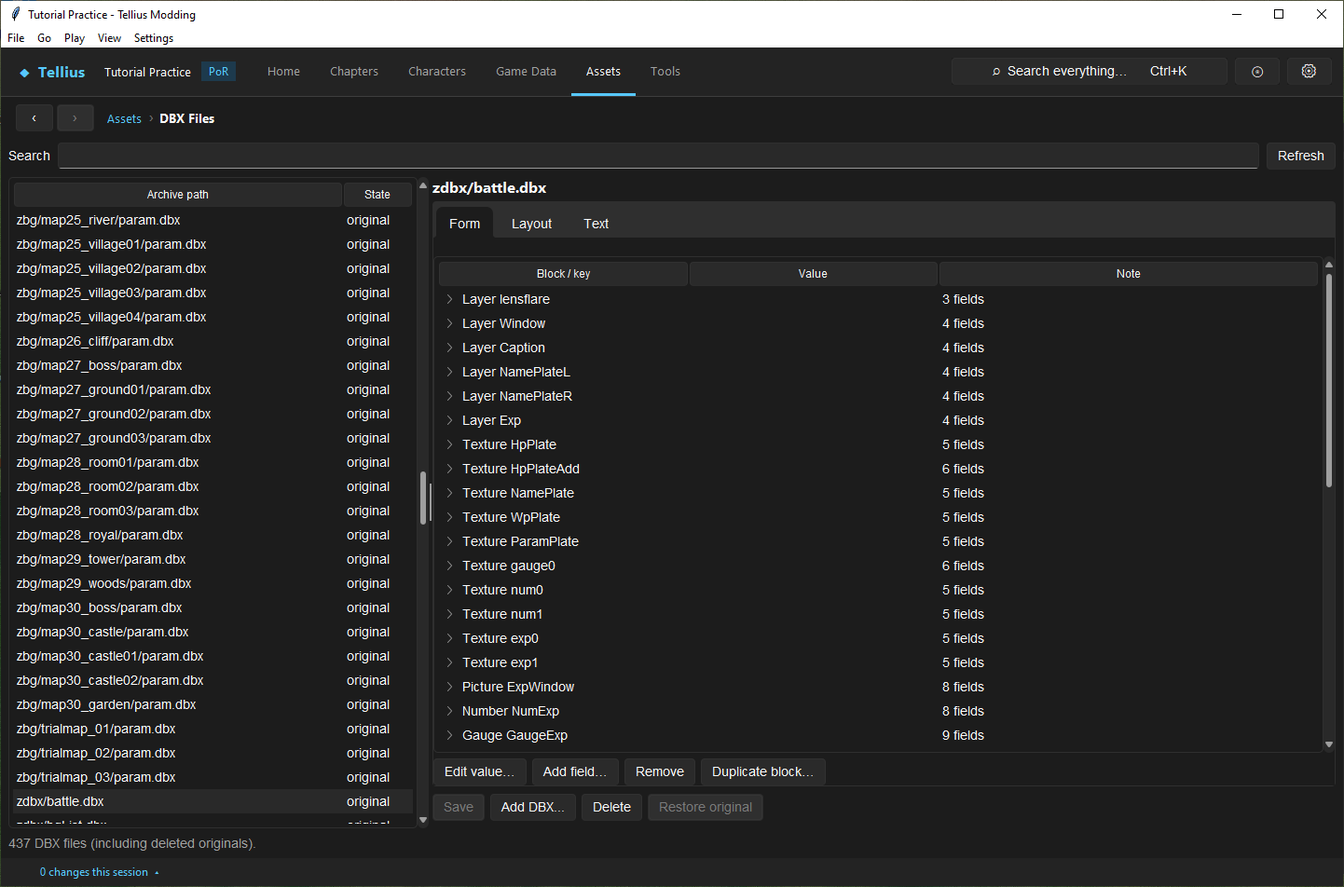
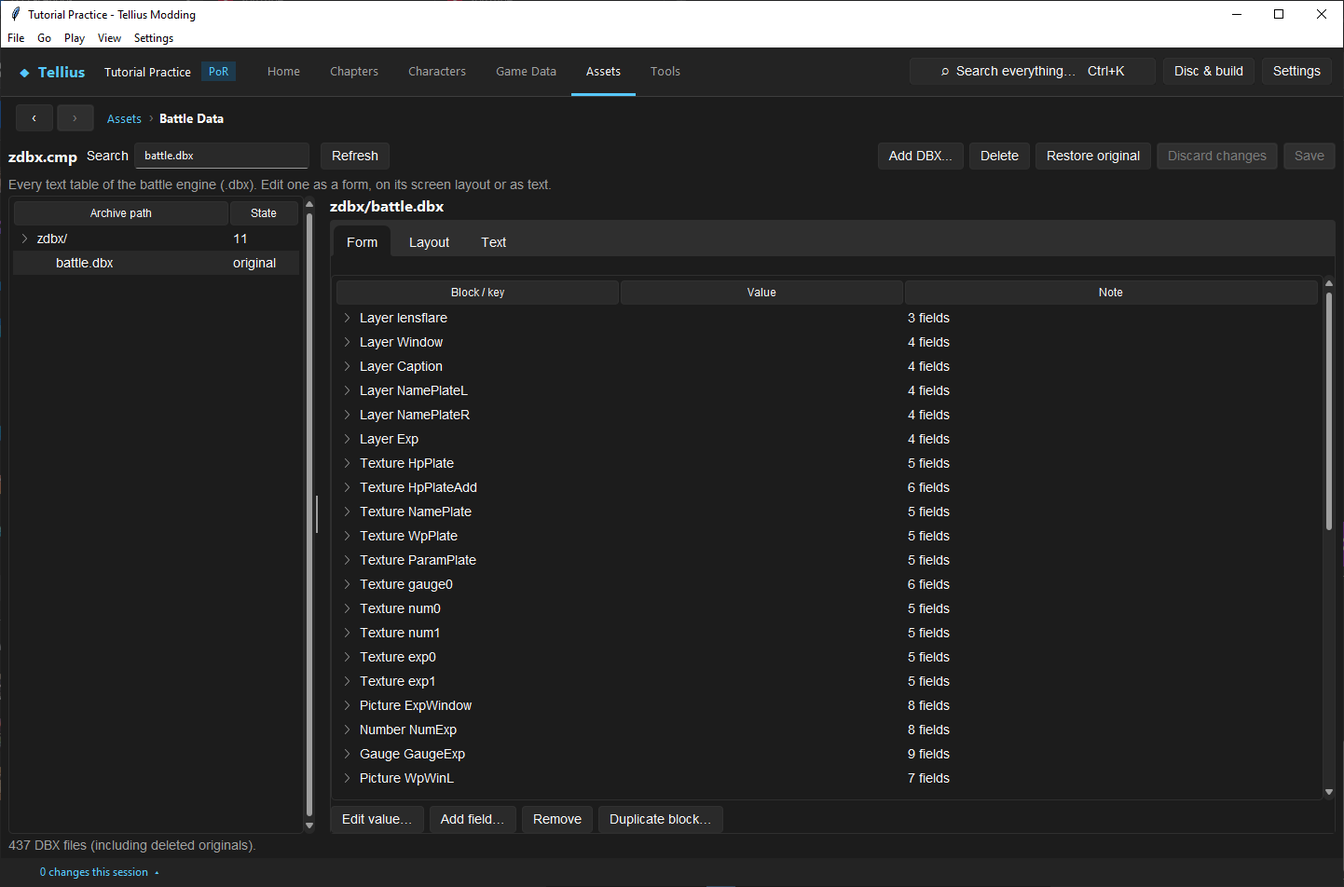
Radiant Dawn follow-ups: blank hub fixed, wrap and regions checked
- Create hub's blank map kept the template's names (bmap0101.gs,
  bmap0101:mapdata) and the game finds a map's parts by its own name, so
  the hub had no ground and Obstacle terrain. The map is now renamed like
  Add chapter's copy (both games). RD's map_base material ignores the
  material colour, so a plain ground carries its colour in a texture.
  Checked in Dolphin: green ground, Plain terrain.
- Map wrap: starts at each phase change and shifts the terrain lookup;
  on bmap0201 a tile reads Cloud with wrap, Sky without (Dolphin).
- The chapter jump boots the EU and JP discs into the Prologue.
- The Japanese save's structure from the code: the system record and
  seven 0x18000 records; still refused, with a clearer message.
- Lessons 69-71 screenshots recaptured on the shared battle pages; the
  capture steps drive the new page.

diff --git a/App/tools/capture_tutorial_screenshots.py b/App/tools/capture_tutorial_screenshots.py
@@ -2132,15 +2132,15 @@ def lessons_69_71(ctx: Ctx):
     # -- 70 battle cameras --
     ctx.go("asset", "battle_cameras")
     yield 2500
-    cams = _table(ctx, "battle_cameras")
-    cams._script_tree.selection_set("standby")
-    cams._script_tree.see("standby")
-    cams._show_script()
+    cams_page = _table(ctx, "battle_cameras")
+    cams = cams_page.adapter
+    cams_page.select("script:standby")
     yield 1000
     ctx.grab("70-a-setup.png", lesson=70,
-             caption="**Assets › Battle Cameras**, **Camera scripts (xcam)** with `standby`, the zoom that opens a "
-                     "melee fight: rig `cam1`, four keyframes from distance 170 to 70 over 330 ticks.",
-             alt="Battle Cameras page with the script list, the standby script's caption, rig and keyframe table.")
+             caption="**Assets › Battle Cameras** with `standby` selected in the **Camera scripts (xcam)** group, "
+                     "the zoom that opens a melee fight: rig `cam1`, four keyframes from distance 170 to 70 over 330 "
+                     "ticks.",
+             alt="Battle Cameras page with the grouped list, the standby script's caption, rig and keyframe table.")
     cams._frame_tree.selection_set("3")
     cams._load_frame_fields()
     cams._frame_vars["dist"].set("110")
@@ -2152,37 +2152,31 @@ def lessons_69_71(ctx: Ctx):
                      "**Preview**: the built-in fight (Ike against a Fighter) plays with the edited script, ending "
                      "wider. **Apply script** would write it; nothing is written yet.",
              alt="Battle Cameras page with the edited keyframe and the preview fight playing below.")
-    cams._show_script()  # drop the unapplied edit
-    notebook = next(w for w in ctx.find(cams, ttk.Notebook))
-    _tab_named(notebook, "Camera rigs (camera.dbx)")
-    yield 600
-    cams._rig_tree.selection_set("cam1")
-    cams._show_rig()
+    cams_page.select("rig:cam1")
     yield 800
     ctx.grab("70-c-rigs.png", lesson=70,
-             caption="**Camera rigs (camera.dbx)** with `cam1`, the free camera of the opening: position, rotation, "
-                     "distance, look-at offset, speed and the units it follows. **Apply rig** writes one rig; "
-                     "**Restore camera.dbx** restores them all.",
-             alt="Battle Cameras rigs tab with the rig list and cam1's fields.")
+             caption="`cam1` in the **Camera rigs (camera.dbx)** group, the free camera of the opening: position, "
+                     "rotation, distance, look-at offset, speed and the units it follows. **Apply rig** writes one "
+                     "rig; **Restore original** with a rig selected restores them all.",
+             alt="Battle Cameras page with cam1 selected in the rigs group and its fields.")
     # -- 71 DBX files and the HUD --
     ctx.go("asset", "dbx_files")
     yield 2500
-    dbxp = _table(ctx, "dbx_files")
-    dbxp._tree.selection_set("zdbx/battle.dbx")
-    dbxp._tree.see("zdbx/battle.dbx")
-    dbxp._select()
+    dbx_page = _table(ctx, "dbx_files")
+    dbxp = dbx_page.adapter
+    dbx_page._query.set("battle.dbx")
+    dbx_page.select("zdbx/battle.dbx")
     yield 1200
     ctx.grab("71-a-setup.png", lesson=71,
-             caption="**Assets › DBX Files** with `zdbx/battle.dbx`, the battle screen: **Form** lists each block "
+             caption="**Assets › Battle Data** with `zdbx/battle.dbx`, the battle screen: **Form** lists each block "
                      "(layers, textures, pictures, numbers, gauges) with its fields and an English note per known "
                      "key.",
-             alt="DBX Files page with zdbx/battle.dbx selected and its blocks in the Form tab.")
+             alt="Battle Data page with zdbx/battle.dbx selected and its blocks in the Form tab.")
     _tab_named(dbxp._tabs, "Layout")
     yield 300
     dbxp._refresh_views()
     yield 1500
     layout = dbxp._layout
-    canvas = layout._canvas
     from fe_modding.formats import dbx as _dbx
     start = next(b.start for b in _dbx.parse(dbxp._current_text()).blocks() if b.name == "WpWinL")
     doc = _dbx.parse(dbxp._current_text())
@@ -2196,9 +2190,9 @@ def lessons_69_71(ctx: Ctx):
              caption="The **Layout** tab draws every widget with a position on the 640 × 480 screen; `WpWinL`, the "
                      "left weapon window, was dragged down. The text changed (**Save** is enabled), but nothing is "
                      "written until **Save**.",
-             alt="DBX Files Layout tab with the battle screen widgets drawn as rectangles and WpWinL moved down.")
-    dbxp._dirty = False
-    dbxp._open("zdbx/battle.dbx")
+             alt="Battle Data Layout tab with the battle screen widgets drawn as rectangles and WpWinL moved down.")
+    dbxp.discard()
+    dbx_page._query.set("")
     yield 500
 
 

diff --git a/App/fe_modding/hub_creation.py b/App/fe_modding/hub_creation.py
@@ -113,6 +113,18 @@ def _flat_model(width: int, height: int, texture_id: int, white_id: int,
         bone=bone, bone_world=bone_world).gs)
 
 
+def _colour_texture(texpack: bytes, color: tuple[int, int, int]) -> tuple[bytes, int]:
+    """``texpack`` with an 8 x 8 texture of ``color`` (RGBA8, exact) added, and its index. Radiant Dawn's
+    ``map_base`` material draws the texture and ignores the material colour (Dolphin: a tinted white
+    texture shows white), so a plain-colour ground carries its colour in its texture there."""
+    source = tpl.build_tpl([(Image.new("RGBA", (8, 8), (*color, 255)), tpl.FORMAT_RGBA8)], wrap=tpl.WRAP_CLAMP)
+    return tpl.copy_images(texpack, source, [0])
+
+
+def _is_colour_texture(image: Image.Image, color: tuple[int, int, int]) -> bool:
+    return image.size == (8, 8) and image.getcolors(1) == [(64, (*color, 255))]
+
+
 def _ground(files: dict[str, bytes]) -> tuple[map_file.MapData, map_file.MapObject]:
     data = map_file.read_map_bytes(files["map.bin"])
     ground = next((obj for obj in data.build_desc if map_file.is_base_terrain_object(obj, files)
@@ -141,6 +153,8 @@ def flat_ground_appearance(files: dict[str, bytes]) -> GroundAppearance:
         if not 0 <= base_id < len(images):
             raise ValueError("The generated hub ground refers to a missing texture.")
         image = images[base_id].convert("RGBA")
+        if _is_colour_texture(image, color):
+            image = None      # Radiant Dawn's plain colour, carried by the texture (:func:`_colour_texture`)
     scale = float(1 << model.uv_frac)
     tiled = any(abs(u / scale) > 1.0001 or abs(v / scale) > 1.0001 for u, v in model.uvs)
     return GroundAppearance(color, image, tiled)
@@ -179,6 +193,8 @@ def replace_flat_ground(_entries: list[pak.PakEntry], files: dict[str, bytes], *
                                wrap=tpl.WRAP_REPEAT if tile_ground_image else tpl.WRAP_CLAMP)
         files[texpack], texture_id = tpl.copy_images(files[texpack], source, [0])
         material_color = (255, 255, 255)
+    elif ground_material(data.layout) == "map_base":
+        files[texpack], texture_id = _colour_texture(files[texpack], ground_color)
     files[f"{ground.filename}.gs"] = _flat_model(
         data.capacity.x_size, data.capacity.y_size, texture_id, white_id, material_color,
         ground_image is not None and tile_ground_image, origin, bone, bone_world, ground_material(data.layout))
@@ -277,6 +293,8 @@ def blank_map(compressed: bytes, width: int, height: int, *,
                                wrap=tpl.WRAP_REPEAT if tile_ground_image else tpl.WRAP_CLAMP)
         content["texpack.tpl"], texture_id = tpl.copy_images(content["texpack.tpl"], source, [0])
         material_color = (255, 255, 255)  # show the image without a color tint
+    elif ground_material(layout) == "map_base":
+        content["texpack.tpl"], texture_id = _colour_texture(content["texpack.tpl"], ground_color)
     content[f"{ground.filename}.gs"] = _flat_model(
         width, height, texture_id, white_id, material_color,
         ground_image is not None and tile_ground_image, material=ground_material(layout))
@@ -389,6 +407,8 @@ def create_chapter(project, fe8: bytes, source_id: str, chapter: int, title: str
         raise ValueError("The prepared deployment has no player section.")
     plan = chapters.add_story_chapter(project, fe8, source_id, chapter, title, after=None)
     paths = chapters.chapter_paths(project, f"{chapter:02d}")
+    # named after the new map, as Add chapter's copy is (the game finds a map's parts by its name)
+    map_bytes = chapters.rename_map_pack(map_bytes, source.map.parent.name, paths.map.parent.name)
     project.write_keeping_original(paths.map, map_bytes)
     project.write_keeping_original(paths.deployment, deployment_bytes)
     project.write_keeping_original(paths.dialogue, message.write_messages([]))

diff --git a/App/tests/test_hub_fe10.py b/App/tests/test_hub_fe10.py
@@ -175,13 +175,25 @@ class RdHubSetupTests(unittest.TestCase):
         project.write_logical("game_data", plan.fe10data)
         _entries, files = map_props.read_map_container(chapters.chapter_paths(project, "0502").map)
         data = map_file.read_map_bytes(files["map.bin"])
+        # named after the new map, or the game finds neither its sections nor its ground (Dolphin)
+        self.assertIn("bmap0502.gs", files)
+        self.assertNotIn("bmap0101.gs", files)
+        self.assertIn(b"bmap0502:mapdata", files["map.bin"])
+        self.assertNotIn(b"bmap0101:", files["map.bin"])
         self.assertEqual((data.capacity.x_size, data.capacity.y_size, len(data.build_inst)), (14, 9, 1))
         self.assertEqual(data.rd.version, map_file.read_map_bytes(
             map_props.read_map_container(chapters.chapter_paths(project, "0101").map)[1]["map.bin"]).rd.version)
         ground = [o for o in data.build_desc if map_file.is_base_terrain_object(o, files)
                   and "water" not in o.filename]
         self.assertEqual(len(ground), 1)       # found by its map_base material, as the game finds it
-        self.assertEqual(hub_creation.flat_ground_appearance(files).color, (90, 140, 70))
+        appearance = hub_creation.flat_ground_appearance(files)
+        self.assertEqual(appearance.color, (90, 140, 70))
+        self.assertIsNone(appearance.image)      # the colour texture reads back as the plain colour
+        from fe_modding.formats import gs_file, tpl
+        import io
+        material = gs_file.read_gs(files[f"{ground[0].filename}.gs"]).materials[0]
+        base = tpl.read_tpl_images(io.BytesIO(files["texpack.tpl"]))[material.textures[0].tex_id].convert("RGBA")
+        self.assertEqual(base.getpixel((0, 0)), (90, 140, 70, 255))    # map_base draws the texture's colour
         for path in hub_fe10._deployments(project, "0502"):
             for section in dispo.parse_dispo(path.read_bytes()).sections:
                 if "_mikata" in section.name and section.units:

diff --git a/App/fe_modding/formats/save_file_fe10.py b/App/fe_modding/formats/save_file_fe10.py
@@ -37,7 +37,10 @@ FILE_NAME = "FE10_US.dat"
 FILE_SIZE = 0x124000
 #: Each build's NAND file. The European build writes the same layout as the US one (same file size
 #: and writer code, region map of main.dol); the Japanese file is 0xAC000 bytes (main.dol
-#: 0x8023DE54 creates it with 0xB0000 - 0x4000) and its layout is not decoded.
+#: 0x8023DE54 creates it with 0xB0000 - 0x4000): the same 0x4000 system record, then seven 0x18000
+#: records at 0x4000 + n x 0x18000 (the file seek at 0x8023F4B4 is the US one at 0x80248800). The US
+#: checkpoint bank at 0x94000 + n x 0x18000 has no Japanese counterpart, so record 6 is probably its one
+#: checkpoint; which record holds what is not confirmed without a Japanese save.
 FILE_NAMES = {"RFEE01": "FE10_US.dat", "RFEP01": "FE10_EU.dat", "RFEJ01": "FE10_JP.dat"}
 #: The builds whose file this module reads.
 READABLE = ("RFEE01", "RFEP01")
@@ -1221,8 +1224,9 @@ class SaveFile:
     @classmethod
     def from_bytes(cls, data: bytes) -> "SaveFile":
         if len(data) == JP_FILE_SIZE:
-            raise ValueError("This is a Japanese save (FE10_JP.dat). Its layout differs from the US and "
-                             "European saves and can't be read yet.")
+            raise ValueError("This is a Japanese save (FE10_JP.dat). It holds seven records where the US "
+                             "and European saves hold twelve, and which record is which is not confirmed yet, "
+                             "so it can't be opened.")
         if len(data) != FILE_SIZE:
             raise ValueError(f"A Radiant Dawn save must be 0x{FILE_SIZE:X} bytes, found 0x{len(data):X}")
         system = SaveRecord(data[:SYSTEM_SIZE], 0)

diff --git a/App/fe_modding/hub_creation_fe10.py b/App/fe_modding/hub_creation_fe10.py
@@ -112,7 +112,11 @@ def create_chapter(project, fe10: bytes, source_id: str, new_id: str, title: str
             start = width // 2, height // 2
     plan = chapters_fe10.add_story_chapter(project, fe10, source_id, new_id, title)
     if blank is not None:
-        project.write_keeping_original(chapters.chapter_paths(project, new_id).map, blank)
+        # named after the new map, as Add chapter's copy is: the game finds a map's sections and models
+        # (bmap0501:mapdata, bmap0501.gs) by the map folder's name (checked in Dolphin)
+        target = chapters.chapter_paths(project, new_id).map
+        blank = chapters.rename_map_pack(blank, template.parent.name, target.parent.name)
+        project.write_keeping_original(target, blank)
     armies = 0
     for path in _deployments(project, new_id):
         data, found = avatar_deployment(path.read_bytes(), avatar_pid, jid, start)

diff --git a/wiki/meta/tutorial-capture-log.md b/wiki/meta/tutorial-capture-log.md
@@ -8,7 +8,7 @@ article_type: "reference"
 tags: ["Contributing", "Modding app"]
 aliases: []
 status: "draft"
-last_reviewed: "2026-10-21"
+last_reviewed: "2026-11-15"
 sources: ["telliusmodding-source"]
 cms_collection: "meta"
 source_path: "meta/tutorial-capture-log.md"
@@ -176,10 +176,10 @@ Every frame was taken by the tool from the real app on a disposable *Tutorial Pr
 | [`69-a-setup.png`](../assets/images/tutorials/screenshots/69-a-setup.png) | 69 | captured | **Assets › Visual Effects** with `EID_K_FIRE`, the Fire tome's spell: its registry flags, the parts of its `yme/` pack, its particle emitters, its textures and the animated preview. |
 | [`69-b-result.png`](../assets/images/tutorials/screenshots/69-b-result.png) | 69 | captured | **Edit particles…** on `EID_K_FIRE`: the **Timing events**, the material tracks (alpha, colour, texture scroll) and each emitter with its stages, curves and keys. Select one to edit its fields, **Apply fields**, then **Save effect**; the preview is approximate. |
 | [`69-c-add.png`](../assets/images/tutorials/screenshots/69-c-add.png) | 69 | captured | **Add effect…**: a new `EID_` name, then **Clone effect** (copy an existing pack) or **Import pack** (a `.cmp` file), and **Copy flags from** an effect whose registry flags fit. |
-| [`70-a-setup.png`](../assets/images/tutorials/screenshots/70-a-setup.png) | 70 | captured | **Assets › Battle Cameras**, **Camera scripts (xcam)** with `standby`, the zoom that opens a melee fight: rig `cam1`, four keyframes from distance 170 to 70 over 330 ticks. |
+| [`70-a-setup.png`](../assets/images/tutorials/screenshots/70-a-setup.png) | 70 | captured | **Assets › Battle Cameras** with `standby` selected in the **Camera scripts (xcam)** group, the zoom that opens a melee fight: rig `cam1`, four keyframes from distance 170 to 70 over 330 ticks. |
 | [`70-b-result.png`](../assets/images/tutorials/screenshots/70-b-result.png) | 70 | captured | The last keyframe's **Distance** changed from 70 to 110 with **Update keyframe**, then **Preview**: the built-in fight (Ike against a Fighter) plays with the edited script, ending wider. **Apply script** would write it; nothing is written yet. |
-| [`70-c-rigs.png`](../assets/images/tutorials/screenshots/70-c-rigs.png) | 70 | captured | **Camera rigs (camera.dbx)** with `cam1`, the free camera of the opening: position, rotation, distance, look-at offset, speed and the units it follows. **Apply rig** writes one rig; **Restore camera.dbx** restores them all. |
-| [`71-a-setup.png`](../assets/images/tutorials/screenshots/71-a-setup.png) | 71 | captured | **Assets › DBX Files** with `zdbx/battle.dbx`, the battle screen: **Form** lists each block (layers, textures, pictures, numbers, gauges) with its fields and an English note per known key. |
+| [`70-c-rigs.png`](../assets/images/tutorials/screenshots/70-c-rigs.png) | 70 | captured | `cam1` in the **Camera rigs (camera.dbx)** group, the free camera of the opening: position, rotation, distance, look-at offset, speed and the units it follows. **Apply rig** writes one rig; **Restore original** with a rig selected restores them all. |
+| [`71-a-setup.png`](../assets/images/tutorials/screenshots/71-a-setup.png) | 71 | captured | **Assets › Battle Data** with `zdbx/battle.dbx`, the battle screen: **Form** lists each block (layers, textures, pictures, numbers, gauges) with its fields and an English note per known key. |
 | [`71-b-result.png`](../assets/images/tutorials/screenshots/71-b-result.png) | 71 | captured | The **Layout** tab draws every widget with a position on the 640 × 480 screen; `WpWinL`, the left weapon window, was dragged down. The text changed (**Save** is enabled), but nothing is written until **Save**. |
 | [`72-a-setup.png`](../assets/images/tutorials/screenshots/72-a-setup.png) | 72 | captured | **Game Data › Rect RIDs**: the RIDs of a rect file, the layers of the selected RID, its properties and preview, and where it is **Referenced in**. |
 | [`72-c-edit.png`](../assets/images/tutorials/screenshots/72-c-edit.png) | 72 | captured | **Edit RID…** on `RID_END_BOLE`, Boyd's epilogue picture: **RID settings** and its one layer on the left, *Layer 0: Rect* selected and its **Properties** in the middle, the **Illustrative preview (608 × 448)** on the right. **Apply** saves the rect file; **Revert** drops the edits. |

diff --git a/wiki/modding/hub-chapters.md b/wiki/modding/hub-chapters.md
@@ -210,7 +210,7 @@ Use [the Flags guide](34-event-flags.md) to inspect names, storage, and values. 
 
 The same routes work on a Radiant Dawn project, with these differences:
 
-- **Create hub…** makes an added chapter, `0501` to `0524` (story numbers 56 to 79), outside the story order. It copies the template's map, or makes a **Blank map** of the size you choose: one flat ground of a colour or an image, the template's light, fog and shader kept, no props and no water. The ground's material is named `map_base`, which is how Radiant Dawn finds a map's ground; **Build → Hub → Edit ground…** changes it later. In each difficulty's deployment the template's first player unit becomes the avatar, on the tile it stands on (the middle of a blank map when that tile is outside it); every other unit, and the cutscene units of `dispos_c.bin`, are removed. The script becomes a plain opening: the chapter title, the map, the player army and the avatar in focus.
+- **Create hub…** makes an added chapter, `0501` to `0524` (story numbers 56 to 79), outside the story order. It copies the template's map, or makes a **Blank map** of the size you choose: one flat ground of a colour or an image, the template's light, fog and shader kept, no props and no water. The ground's material is named `map_base`, which is how Radiant Dawn finds a map's ground; that material draws its texture and not a colour, so a plain colour is stored as a small texture of that colour. **Build → Hub → Edit ground…** changes it later. The map is renamed after the new chapter, as **Add chapter** does, because the game finds a map's parts by its name. A blank hub was loaded in Dolphin: the avatar stands on the coloured ground, on Plain terrain. In each difficulty's deployment the template's first player unit becomes the avatar, on the tile it stands on (the middle of a blank map when that tile is outside it); every other unit, and the cutscene units of `dispos_c.bin`, are removed. The script becomes a plain opening: the chapter title, the map, the player army and the avatar in focus.
 - The Hub tool has no **Flag storage** choice and no **Edit ground…**: the flags are always the vanilla kind.
 - **Install hub** puts Radiant Dawn's Arrive marker (`tttu01`, the one on Chapter 1's Arrive tile) on each action tile, copied from a chapter map that has it. A link's **Description** is shown by Visit in the map's dialog box: at most four lines of 30 characters, wrapped at spaces, without `<`, `>`, `#`, `@` or `$`. It is written as `MS_HUB_NN_INFO` in the hub's English message file (`e_c05NN.m`).
 - **Install hub** appends `HUB_ACTIVE`, `HUB_STARTED` and the two chapter bytes to `RegistGlobalFlags` (slots 27 to 47 on an unmodified `startup.cmb`). It also installs the router after the story advance. When the hub's map is won, the avatar leaves the player army, so it never joins the roster.

diff --git a/wiki/modding/70-battle-cameras.md b/wiki/modding/70-battle-cameras.md
@@ -49,9 +49,9 @@ The page lists the kind-of-strike scripts: `standby` (the opening zoom), `standb
 <!-- screenshot 70-a-setup.png -->
 <figure class="tutorial-figure" markdown="1">
 
-[![Battle Cameras page with the script list, the standby script's caption, rig and keyframe table.](../assets/images/tutorials/screenshots/70-a-setup.png)](../assets/images/tutorials/screenshots/70-a-setup.png)
+[![Battle Cameras page with the grouped list, the standby script's caption, rig and keyframe table.](../assets/images/tutorials/screenshots/70-a-setup.png)](../assets/images/tutorials/screenshots/70-a-setup.png)
 
-<figcaption markdown="span">**Assets › Battle Cameras**, **Camera scripts (xcam)** with `standby`, the zoom that opens a melee fight: rig `cam1`, four keyframes from distance 170 to 70 over 330 ticks.</figcaption>
+<figcaption markdown="span">**Assets › Battle Cameras** with `standby` selected in the **Camera scripts (xcam)** group, the zoom that opens a melee fight: rig `cam1`, four keyframes from distance 170 to 70 over 330 ticks.</figcaption>
 </figure>
 
 Open **Assets → Battle Cameras** and select `standby` in the list's **Camera scripts (xcam)** group. It drives rig `cam1` with four keyframes, all at **Rotation** 8, 180, 0 (slightly above, side-on from the front): **Distance** 170 at time 0, then 100 over 20 ticks, 87 over 10, and 70 over 300. The fight opens wide and closes in.
@@ -81,9 +81,9 @@ Open **Assets → Battle Cameras** and select `standby` in the list's **Camera s
 <!-- screenshot 70-c-rigs.png -->
 <figure class="tutorial-figure" markdown="1">
 
-[![Battle Cameras rigs tab with the rig list and cam1's fields.](../assets/images/tutorials/screenshots/70-c-rigs.png)](../assets/images/tutorials/screenshots/70-c-rigs.png)
+[![Battle Cameras page with cam1 selected in the rigs group and its fields.](../assets/images/tutorials/screenshots/70-c-rigs.png)](../assets/images/tutorials/screenshots/70-c-rigs.png)
 
-<figcaption markdown="span">**Camera rigs (camera.dbx)** with `cam1`, the free camera of the opening: position, rotation, distance, look-at offset, speed and the units it follows. **Apply rig** writes one rig; **Restore original** with a rig selected restores them all.</figcaption>
+<figcaption markdown="span">`cam1` in the **Camera rigs (camera.dbx)** group, the free camera of the opening: position, rotation, distance, look-at offset, speed and the units it follows. **Apply rig** writes one rig; **Restore original** with a rig selected restores them all.</figcaption>
 </figure>
 
 In the list's **Camera rigs (camera.dbx)** group, select `cam1`: **Rotation** `-2,-2, 180.0, 0.0` (the retail file's own malformed value, kept as is), **Distance** 60, **Destination**, **Attract (0/1)** 1, **Eye center (0/1)** 0, no unit followed. Select `camCharaL0`: it follows the actor. A rig edit changes every script that uses it.

diff --git a/App/docs/RD_UNDECODED_INVENTORY.md b/App/docs/RD_UNDECODED_INVENTORY.md
@@ -255,3 +255,10 @@ Run unattended in Dolphin: the Prologue booted with the chapter jump and no inpu
 - **Fitted skeletons (RIG-RD-01)** were checked earlier the same day.
 
 For someone at the controller: `tools/session_playtest/rd_check_scenarios.py` (`build --set rdcheck`): Play from the Saves page, an event flag through the game's own save, a support edit at the C threshold, the Silver Army name on 4-1, a blank hub map, the paired model after a rig round trip.
+
+## 2026-11-15: follow-ups
+
+- **HUB-RD-01: a hub on a blank map (fixed, checked in Dolphin).** Create hub's blank map was built from the template's `map.cmp` and written over Add chapter's renamed copy, so it kept the template's names (`bmap0101.gs`, `bmap0101:mapdata`). The game finds a map's sections and models by the map folder's name, so the hub loaded with no ground and an Obstacle terrain grid. The blank map is now renamed like Add chapter's copy (also on Path of Radiance). Radiant Dawn's `map_base` material draws its texture and ignores the material colour, so a plain-colour ground carries its colour in an 8 x 8 RGBA8 texture. In Dolphin the hub chapter (jumped into directly) shows the green ground and Plain terrain under the avatar. Following the hub's links is in the rdcheck package (R5).
+- **Map wrap fields (checked in Dolphin).** The turn process (pointer at `0x8037A010`, function `0x8013E77C`) starts the wrap at each phase change: `update_map_wrap_offsets` then moves the offsets by the steps over the duration, shifting the terrain lookup. On `bmap0201` (2-P, over moving clouds) the tile under Elincia reads Cloud (+15 avoid) with retail wrap and Sky with wrap off. Wrap turned on for the Prologue map shows nothing: it has no `map_move` layer to move.
+- **European and Japanese discs in Dolphin.** The chapter jump (itself a ported Game Code entry) boots both discs straight into the Prologue. Fog of war and the computer-played player phase showed no visible difference without input, so no other patch effect has been seen on them yet; a story flow edit needs a chapter's end, which waits for input.
+- **SAVE-08: the Japanese file (structure from code).** `FE10_JP.dat` is the 0x4000 system record and seven 0x18000 records at 0x4000 + n x 0x18000 (the file seek at RFEJ01 0x8023F4B4 matches US 0x80248800). The US checkpoint bank (0x94000 + n x 0x18000, US 0x80249FF4 and three more functions) has no Japanese counterpart, so record 6 is probably the one checkpoint. A JP save made through `SaveMenu()` in an unattended run did not open the save menu; the file is still refused until a real one confirms the records.

diff --git a/wiki/meta/radiant-dawn.md b/wiki/meta/radiant-dawn.md
@@ -51,6 +51,8 @@ source_path: "meta/radiant-dawn.md"
 
   Setting `gf_complete` wins the map at the end of the next unit action, not at once: a turn-start event that sets it ends the chapter when the first unit waits. Every `on_complete` event of the script then runs, in order, so a second win event can be added beside the chapter's own. <span class="confidence confidence--confirmed">in game</span>
 
+  A map that wraps (`bmap0201`, Part 2's map over moving clouds) moves one step at each phase change: its mapdata names the step and the duration, and the terrain under a unit moves with it (a tile reads Cloud, then Sky). <span class="confidence confidence--confirmed">in game</span>
+
   A hub chapter is an added chapter (56-79) outside the story order. Its state is in four registered global flags (active, started) and two whole flag bytes (the destination and the pending story chapter), which a save keeps. The modding app's router runs as the last step of its chapter advance: from the hub it goes to the chosen destination or, with none, back to the story; when any other chapter ends with the hub active it goes back to the hub, keeping the next story chapter pending. <span class="confidence confidence--confirmed">in game</span>
 
 ## Part 4 armies
@@ -140,7 +142,7 @@ source_path: "meta/radiant-dawn.md"
 
 ## Saves
 
-  The game saves `FE10_US.dat` on the US disc and `FE10_EU.dat` on the European one, the same layout written by the same code, in the title's data folder (`Wii/title/00010000/52464545/data` and `.../52464550/data`). The Japanese disc's `FE10_JP.dat` is 0xAC000 bytes, not 0x124000, and its layout is not decoded. <span class="confidence confidence--confirmed">engine</span>
+  The game saves `FE10_US.dat` on the US disc and `FE10_EU.dat` on the European one, the same layout written by the same code, in the title's data folder (`Wii/title/00010000/52464545/data` and `.../52464550/data`). The Japanese disc's `FE10_JP.dat` is 0xAC000 bytes, not 0x124000: the same system record, then seven records of 0x18000 bytes where the US file has twelve (six files and six checkpoints). The Japanese build has no separate checkpoint bank, so its seventh record is probably its one checkpoint; the records themselves are not confirmed. <span class="confidence confidence--confirmed">engine</span>
 
   `FE10_US.dat` holds a system record, six files and six checkpoints. Each file is a record of its own: its header holds the file number, the difficulty and the chapter number the file menu shows, which `BMST` repeats. <span class="confidence confidence--confirmed">files</span>
 

diff --git a/wiki/modding/58-play-chapter.md b/wiki/modding/58-play-chapter.md
@@ -238,7 +238,7 @@ Play state is never saved. Fix what you find in the owning editor (Build, Script
 - **What it skips.** The game starts in the chapter: past the opening movie, the title and the file menu, in about half a minute.
 - **The army.** As on Path of Radiance the army is fresh: only the units the chapter brings in. On Radiant Dawn only the Prologue (`0101`) fields an army this way; test later chapters from a save.
 - **Saves.** Radiant Dawn saves in the Wii's memory. A run uses a Dolphin user folder of its own, so your Dolphin saves are not touched.
-- The jump also exists for the European and Japanese discs; it has been played only on the US disc.
+- The jump also works on the European and Japanese discs (played in Dolphin on the Prologue).
 
 ## Related tutorials and references
 
